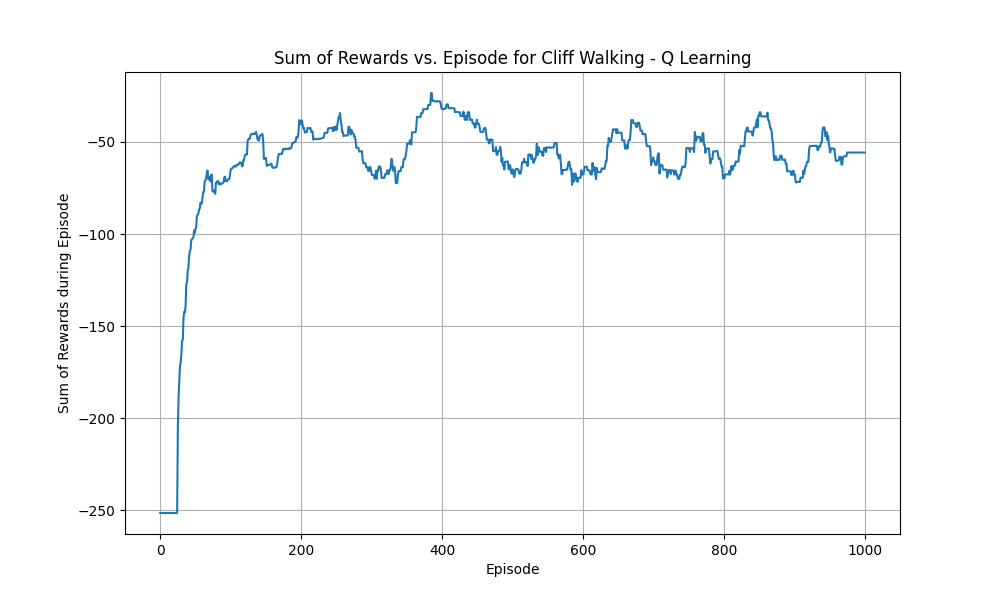
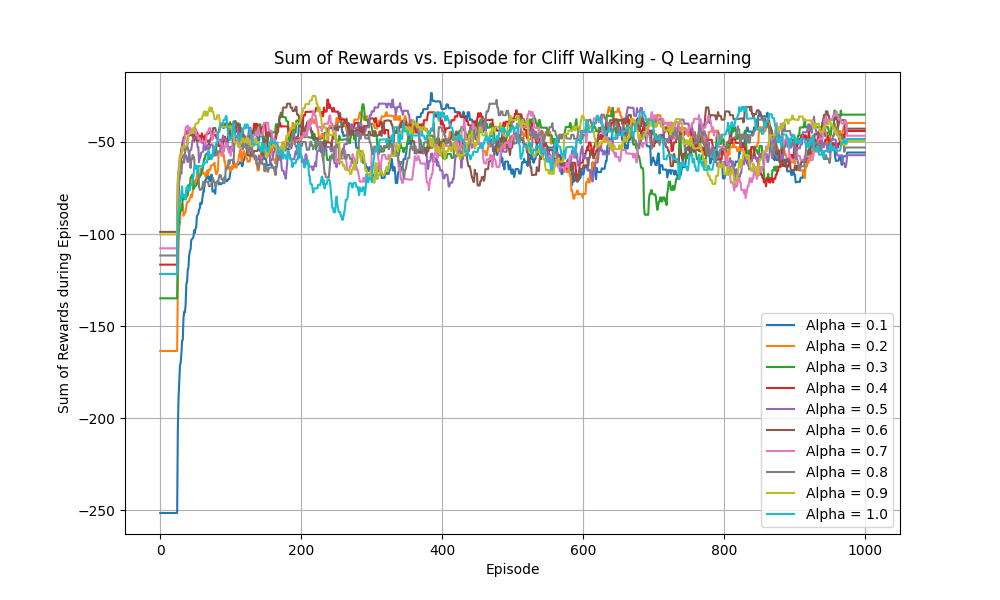
sarsa, qlearning, expected sarsa with different alphas

Changed region(s): [[0.155, 0.15, 0.868, 0.51], [0.775, 0.51, 0.899, 0.87], [0.155, 0.57, 0.186, 0.6]]

diff --git a/experiments/cliff_walking/sarsa.py b/experiments/cliff_walking/sarsa.py
@@ -20,20 +20,20 @@ class SarsaWithLogging(Sarsa):
                 state, info = self.env.reset()
                 done = False
                 total_reward = 0  # Initialize the total reward for the current episode
-                
+                action = np.random.choice(np.arange(self.num_action), p=self.policy[state])
                 while not done:
-                    action = np.random.choice(np.arange(self.num_action), p=self.policy[state])
                     next_state, reward, terminated, truncated, info = self.env.step(action=action)
                     done = terminated or truncated
 
                     # Update Q function
-                    self.update_q_function(state, action, reward, next_state)
+                    next_action = self.update_q_function(state, action, reward, next_state)
 
                     # Update policy based on new Q values
                     self.improve_policy(state) 
 
                     # Move to the next state
                     state = next_state
+                    action = next_action
 
                     # Accumulate the reward
                     total_reward += reward
@@ -53,22 +53,29 @@ if __name__ == '__main__':
     agent = SarsaWithLogging(env=env)
 
     ##### 1. Use sarsa to solve cliff walking #####
+    alphas = [(i+1)/10 for i in range(10)]
     num_episode = 1000
     window_size = 50  # Define a window size for the moving average
 
-    agent.reset()
-    rewards_per_episode = agent.estimation_and_control(num_episode=num_episode)
+    plt.figure(figsize=(10, 6))
 
-    # Compute the moving average of the rewards
-    smoothed_rewards = moving_average_with_padding(rewards_per_episode, window_size=window_size)
+    for alpha in alphas:
+        agent.reset()
+        agent.set_alpha(alpha=alpha)
+        rewards_per_episode = agent.estimation_and_control(num_episode=num_episode)
+
+        # Compute the moving average of the rewards
+        smoothed_rewards = moving_average_with_padding(rewards_per_episode, window_size=window_size)
+
+        # Plot the smoothed rewards with a label indicating the alpha value
+        plt.plot(range(num_episode), smoothed_rewards, label=f'Alpha = {alpha:.1f}')
 
     # Plot the sum of rewards per episode
-    plt.figure(figsize=(10, 6))
-    plt.plot(range(num_episode), smoothed_rewards)
     plt.xlabel('Episode')
     plt.ylabel('Sum of Rewards during Episode')
     plt.title('Sum of Rewards vs. Episode for Cliff Walking - Sarsa')
     plt.grid(True)
+    plt.legend()  # Add a legend to indicate alpha values
 
     rewards_vs_episode_plot_path = os.path.join(log_dir, 'sarsa_rewards_vs_episode.png')
     plt.savefig(rewards_vs_episode_plot_path)

diff --git a/experiments/cliff_walking/expected_sarsa.py b/experiments/cliff_walking/expected_sarsa.py
@@ -50,25 +50,33 @@ if __name__ == '__main__':
     log_dir = os.path.dirname(os.path.abspath(__file__))
     ##### 0. Load environment and initiate policy #####
     env = gym.make('CliffWalking-v0')
+
     agent = ExpectedSarsaWithLogging(env=env)
 
     ##### 1. Use expected sarsa to solve cliff walking #####
+    alphas = [(i+1)/10 for i in range(10)]
     num_episode = 1000
     window_size = 50  # Define a window size for the moving average
 
-    agent.reset()
-    rewards_per_episode = agent.estimation_and_control(num_episode=num_episode)
-
-    # Compute the moving average of the rewards
-    smoothed_rewards = moving_average_with_padding(rewards_per_episode, window_size=window_size)
-
-    # Plot the sum of rewards per episode
     plt.figure(figsize=(10, 6))
-    plt.plot(range(num_episode), smoothed_rewards)
+
+    for alpha in alphas:
+        agent.reset()
+        agent.set_alpha(alpha=alpha)
+        rewards_per_episode = agent.estimation_and_control(num_episode=num_episode)
+
+        # Compute the moving average of the rewards
+        smoothed_rewards = moving_average_with_padding(rewards_per_episode, window_size=window_size)
+
+        # Plot the smoothed rewards with a label indicating the alpha value
+        plt.plot(range(num_episode), smoothed_rewards, label=f'Alpha = {alpha:.1f}')
+
+    # Finalize the plot
     plt.xlabel('Episode')
     plt.ylabel('Sum of Rewards during Episode')
     plt.title('Sum of Rewards vs. Episode for Cliff Walking - Expected Sarsa')
     plt.grid(True)
+    plt.legend()  # Add a legend to distinguish the curves
 
     rewards_vs_episode_plot_path = os.path.join(log_dir, 'expected_sarsa_rewards_vs_episode.png')
     plt.savefig(rewards_vs_episode_plot_path)

diff --git a/experiments/cliff_walking/q_learning.py b/experiments/cliff_walking/q_learning.py
@@ -53,22 +53,28 @@ if __name__ == '__main__':
     agent = QLearningWithLogging(env=env)
 
     ##### 1. Use q learning to solve cliff walking #####
+    alphas = [(i+1)/10 for i in range(10)]
     num_episode = 1000
     window_size = 50  # Define a window size for the moving average
 
-    agent.reset()
-    rewards_per_episode = agent.estimation_and_control(num_episode=num_episode)
-
-    # Compute the moving average of the rewards
-    smoothed_rewards = moving_average_with_padding(rewards_per_episode, window_size=window_size)
-
-    # Plot the sum of rewards per episode
     plt.figure(figsize=(10, 6))
-    plt.plot(range(num_episode), smoothed_rewards)
+
+    for alpha in alphas:
+        agent.reset()
+        agent.set_alpha(alpha=alpha)
+        rewards_per_episode = agent.estimation_and_control(num_episode=num_episode)
+
+        # Compute the moving average of the rewards
+        smoothed_rewards = moving_average_with_padding(rewards_per_episode, window_size=window_size)
+
+        # Plot the smoothed rewards with a label indicating the alpha value
+        plt.plot(range(num_episode), smoothed_rewards, label=f'Alpha = {alpha:.1f}')
+
     plt.xlabel('Episode')
     plt.ylabel('Sum of Rewards during Episode')
     plt.title('Sum of Rewards vs. Episode for Cliff Walking - Q Learning')
     plt.grid(True)
+    plt.legend()  # Add a legend to indicate alpha values
 
     rewards_vs_episode_plot_path = os.path.join(log_dir, 'q_learning_rewards_vs_episode.png')
     plt.savefig(rewards_vs_episode_plot_path)

diff --git a/traditional_algos/td_learning/q_learning/q_learning.py b/traditional_algos/td_learning/q_learning/q_learning.py
@@ -68,3 +68,6 @@ class QLearning:
         # Implement ε-greedy exploration
         if self.epsilon > 0:
             self.policy[state] = (1 - self.epsilon) * self.policy[state] + (self.epsilon / self.num_action)
+
+    def set_alpha(self, alpha):
+        self.alpha = alpha

diff --git a/traditional_algos/td_learning/sarsa/sarsa.py b/traditional_algos/td_learning/sarsa/sarsa.py
@@ -79,6 +79,9 @@ class Sarsa:
     def set_epsilon(self, epsilon):
         self.epsilon = epsilon
 
+    def set_alpha(self, alpha):
+        self.alpha = alpha
+
 class ExpectedSarsa(Sarsa):
     def estimation_and_control(self, num_episode):
         self.reset()
